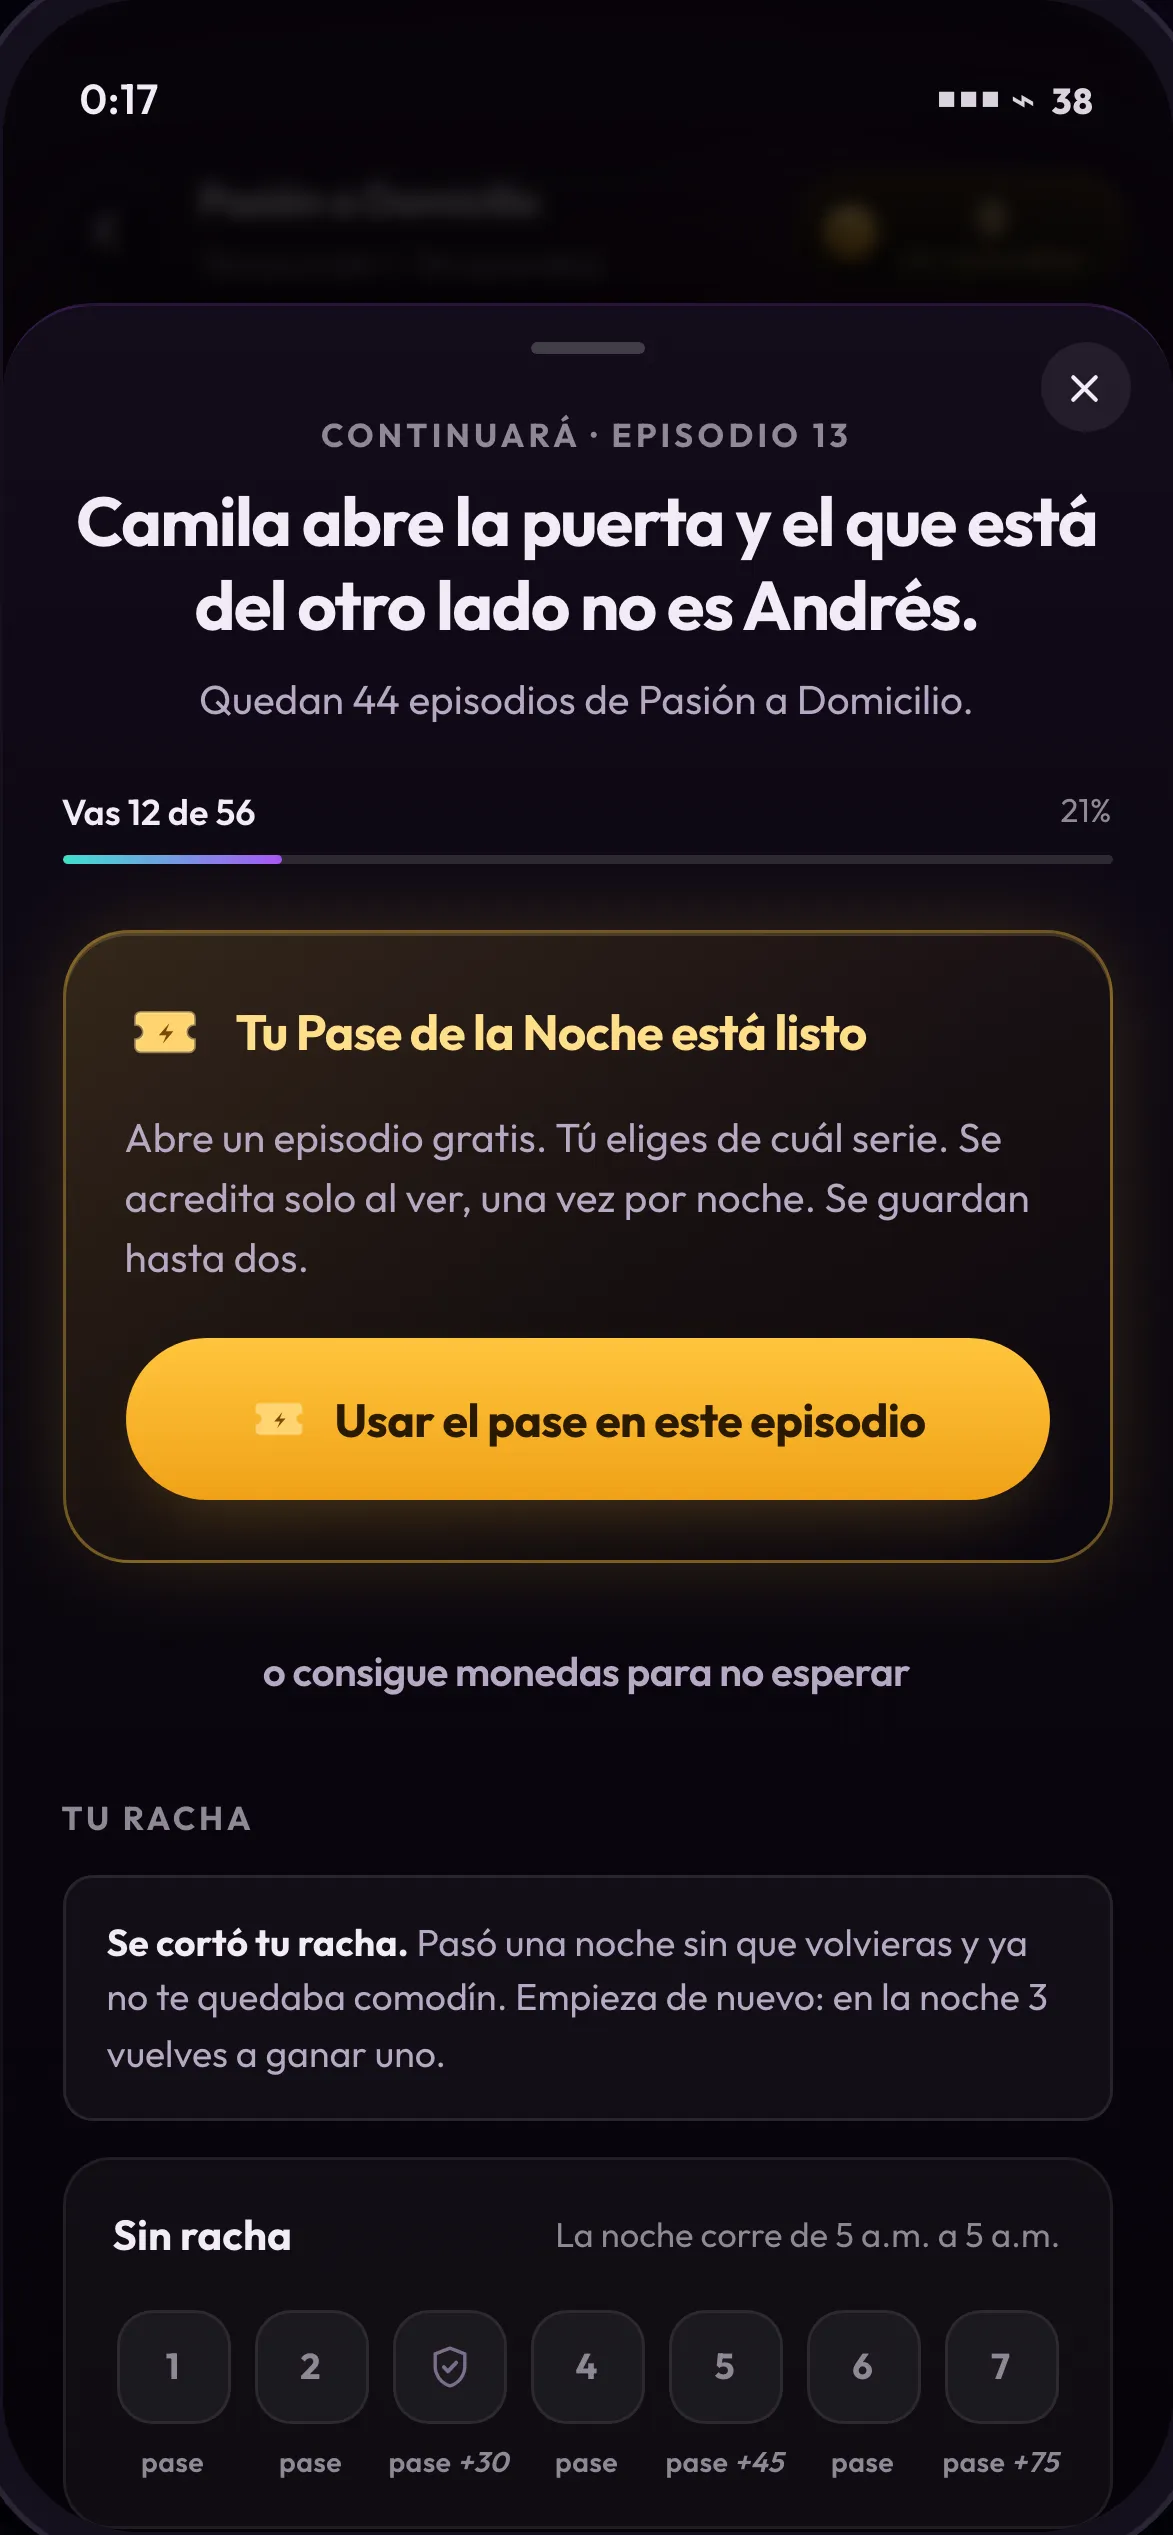
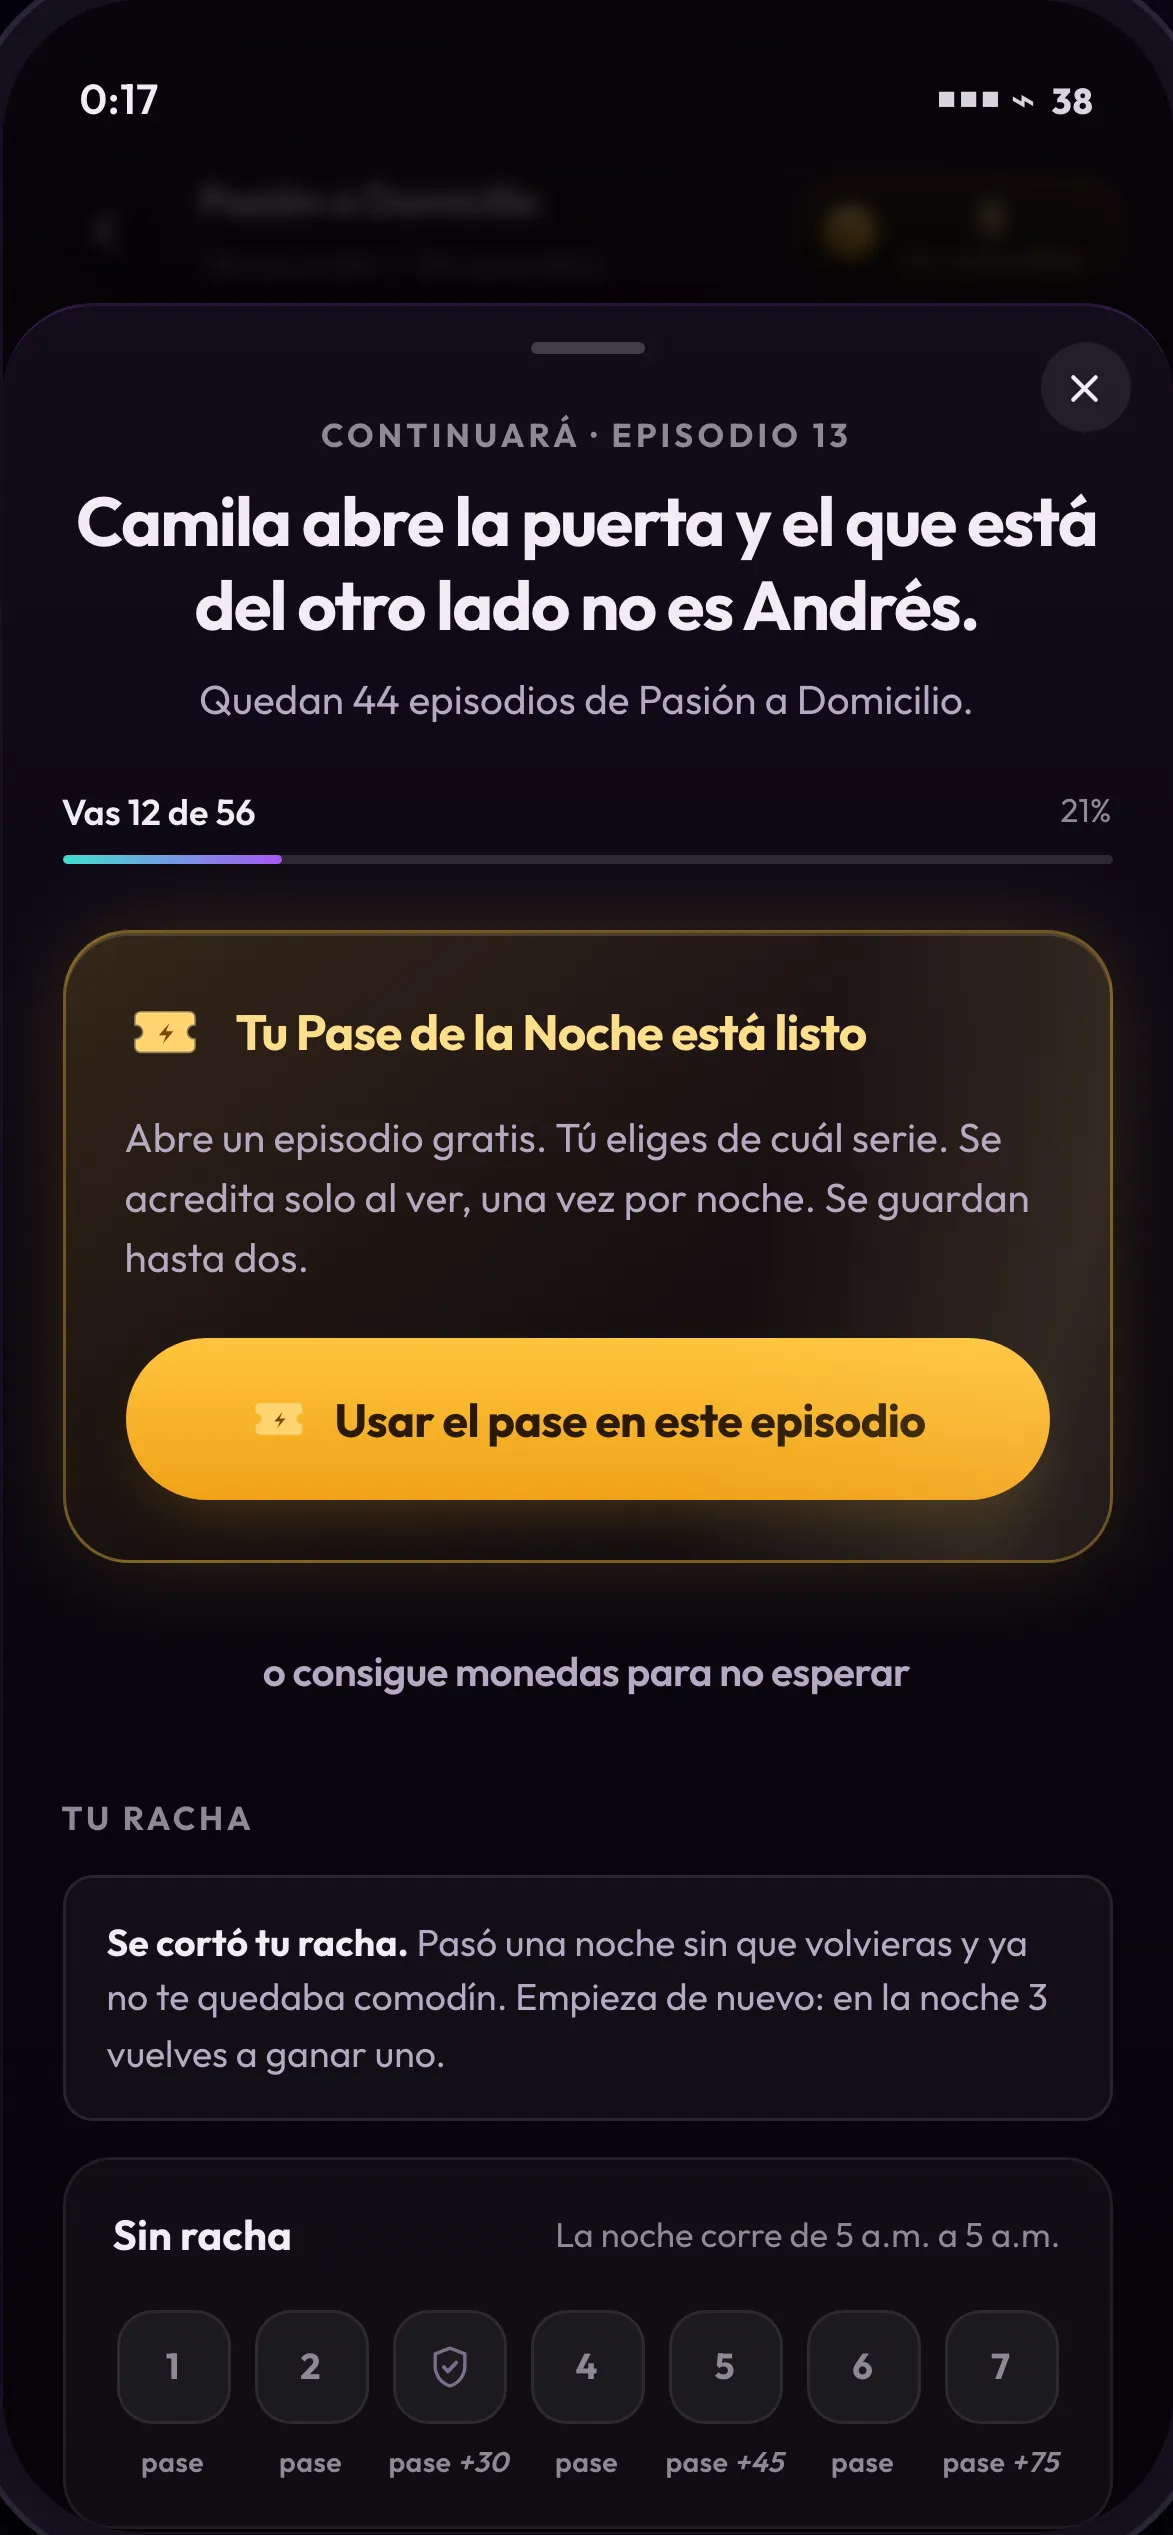
En la web no había forma de salir del muro
Recorriendo el sitio desplegado —no localhost: es un export estático y podía
comportarse distinto— el botón "Volver" no respondía. Con el episodio
bloqueado, el scrim del muro cubre la pantalla entera a z-40 y la barra
superior estaba a z-20, así que quedaba debajo. Y el muro de la web no tiene
cierre ni se descarta tocando fuera, como sí hace el prototipo.

O sea que la pantalla que el diagnóstico critica por ser un final se convertía
en uno de verdad: sin pase y sin monedas no se salía de ahí. La ruta ES el
episodio bloqueado, así que la salida correcta es Volver al índice, y ahora la
barra va por encima del scrim.

De paso, la tira de la racha de la web seguía con el ternario que el prototipo
ya no tiene: "+30" EN LUGAR de "pase", cuando el bono se suma al pase. Las dos
implementaciones dicen ya lo mismo.

Barrí las tres frases de la mecánica vieja en los dos prototipos —"no se
acumula", "24 horas", "completar las 7 noches"— y no queda ninguna viva: las
que aparecen son los comentarios que explican por qué se quitaron.

Changed region(s): [[0.7673, 0.374, 0.9514, 0.6233]]

diff --git a/web/components/Reproductor.tsx b/web/components/Reproductor.tsx
@@ -59,7 +59,13 @@ export function Reproductor({
       {/* Barra superior. El chip de saldo es la única huella permanente del
           metajuego dentro del core loop — y nunca muestra una cifra sin su
           traducción a episodios. */}
-      <div className="absolute inset-x-0 top-0 z-20 flex items-center gap-3 px-4 pt-14">
+      {/* z-50, por encima del scrim del muro. Estaba en z-20 y el scrim lo
+          tapaba: con el episodio bloqueado no había forma de salir —ni de
+          cerrar el muro ni de volver al índice—, o sea la pantalla que el
+          diagnóstico critica por ser un final se convertía en uno de verdad.
+          El prototipo cierra el muro tocando fuera; acá la ruta ES el episodio
+          bloqueado, así que la salida correcta es «Volver». */}
+      <div className="absolute inset-x-0 top-0 z-50 flex items-center gap-3 px-4 pt-14">
         <Link
           href="/"
           aria-label="Volver"

diff --git a/web/components/Racha.tsx b/web/components/Racha.tsx
@@ -27,8 +27,11 @@ export function Racha({ nights, shields }: { nights: number; shields: number }) 
               >
                 {r.shield ? <Escudo s={16} c={hecha ? '#3fc1c9' : '#6e6e78'} /> : r.night}
               </span>
+              {/* Todas las noches dan pase; el bono se SUMA. El ternario que
+                  había aquí ponía «+30» EN LUGAR de «pase», así que la tira
+                  leía como si la noche 3 diera bono en vez de pase. */}
               <span className={`text-[9.5px] font-semibold ${hecha ? 'text-brand-cyan' : 'text-ink-low'}`}>
-                {r.coins > 0 ? `+${r.coins}` : 'pase'}
+                pase{r.coins > 0 ? ` +${r.coins}` : ''}
               </span>
             </li>
           )
